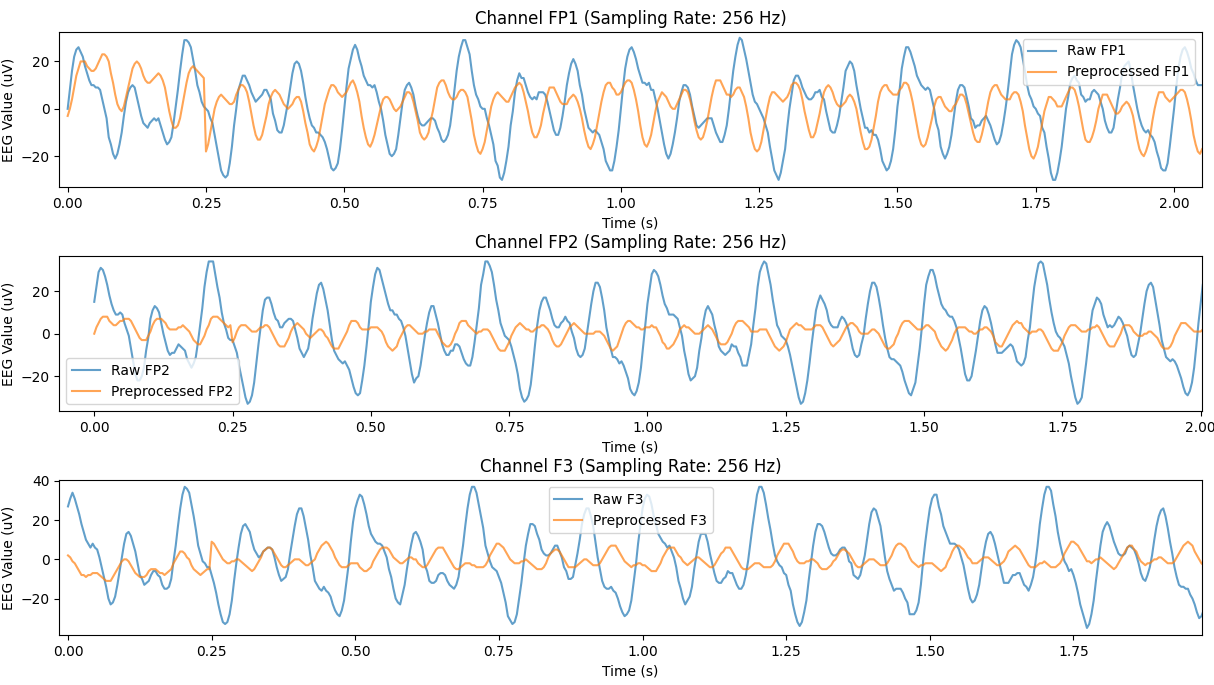
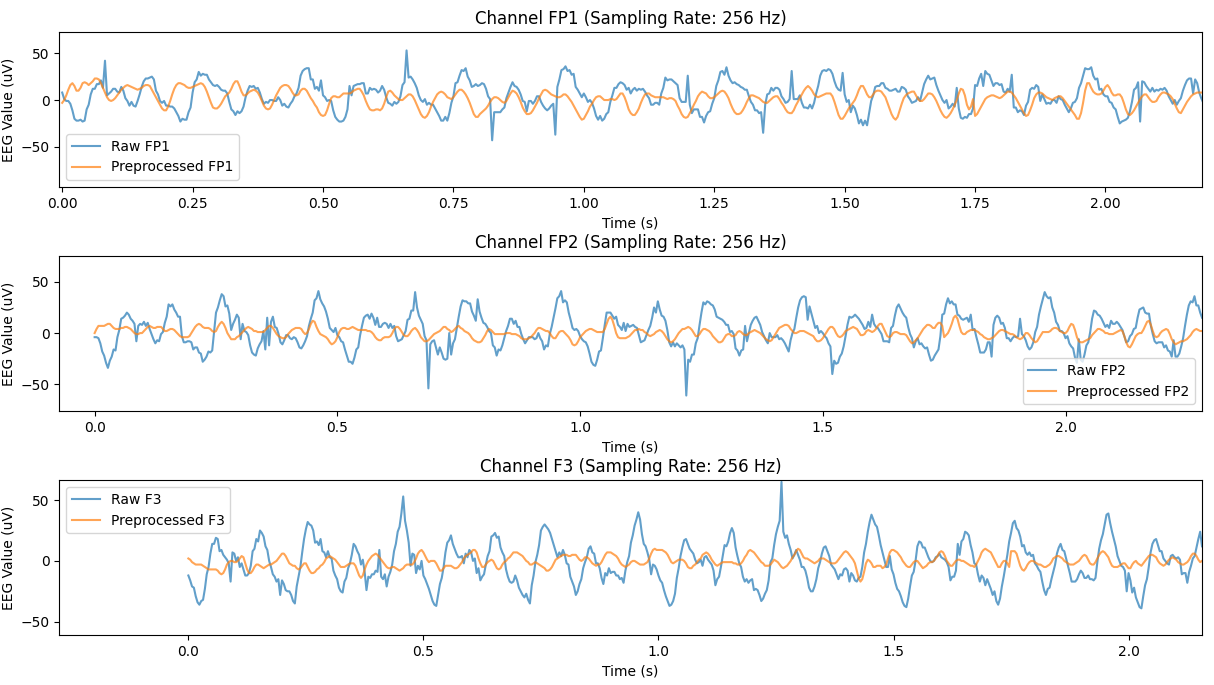
feat: Enhance EEG signal simulation with realistic noise components Futher cleanups

diff --git a/nodes/eeg_simulator.py b/nodes/eeg_simulator.py
@@ -72,11 +72,31 @@ class EEGSimulator(Node):
         amplitude_factor = 1.0 + 0.2 * math.sin(channel * math.pi / 4)
         signal = (alpha + beta + theta) * amplitude_factor
         
-        # Add small noise
+        # Add realistic EEG noise components
         import random
-        noise = random.gauss(0, 0.5)
         
-        return signal + noise
+        # 1. White noise (continuous background)
+        white_noise = random.gauss(0, 2.0)
+        
+        # 2. Low-frequency drift (DC offset changes)
+        drift = 5.0 * math.sin(time_sec * 0.1 + channel)
+        
+        # 3. 50/60 Hz powerline interference
+        powerline = 1.5 * math.sin(2 * math.pi * 50 * time_sec)
+        
+        # 4. Muscle artifacts (random bursts)
+        if random.random() < 0.05:  # 5% chance of muscle artifact
+            muscle_artifact = random.gauss(0, 15)
+        else:
+            muscle_artifact = 0
+        
+        # 5. Eye blink artifacts (mainly in frontal channels FP1, FP2)
+        if channel < 2 and random.random() < 0.02:  # 2% chance in frontal channels
+            blink_artifact = random.gauss(0, 30)
+        else:
+            blink_artifact = 0
+        
+        return signal + white_noise + drift + powerline + muscle_artifact + blink_artifact
     
     def publish_eeg(self):
         """Publish a simulated EEG message."""
